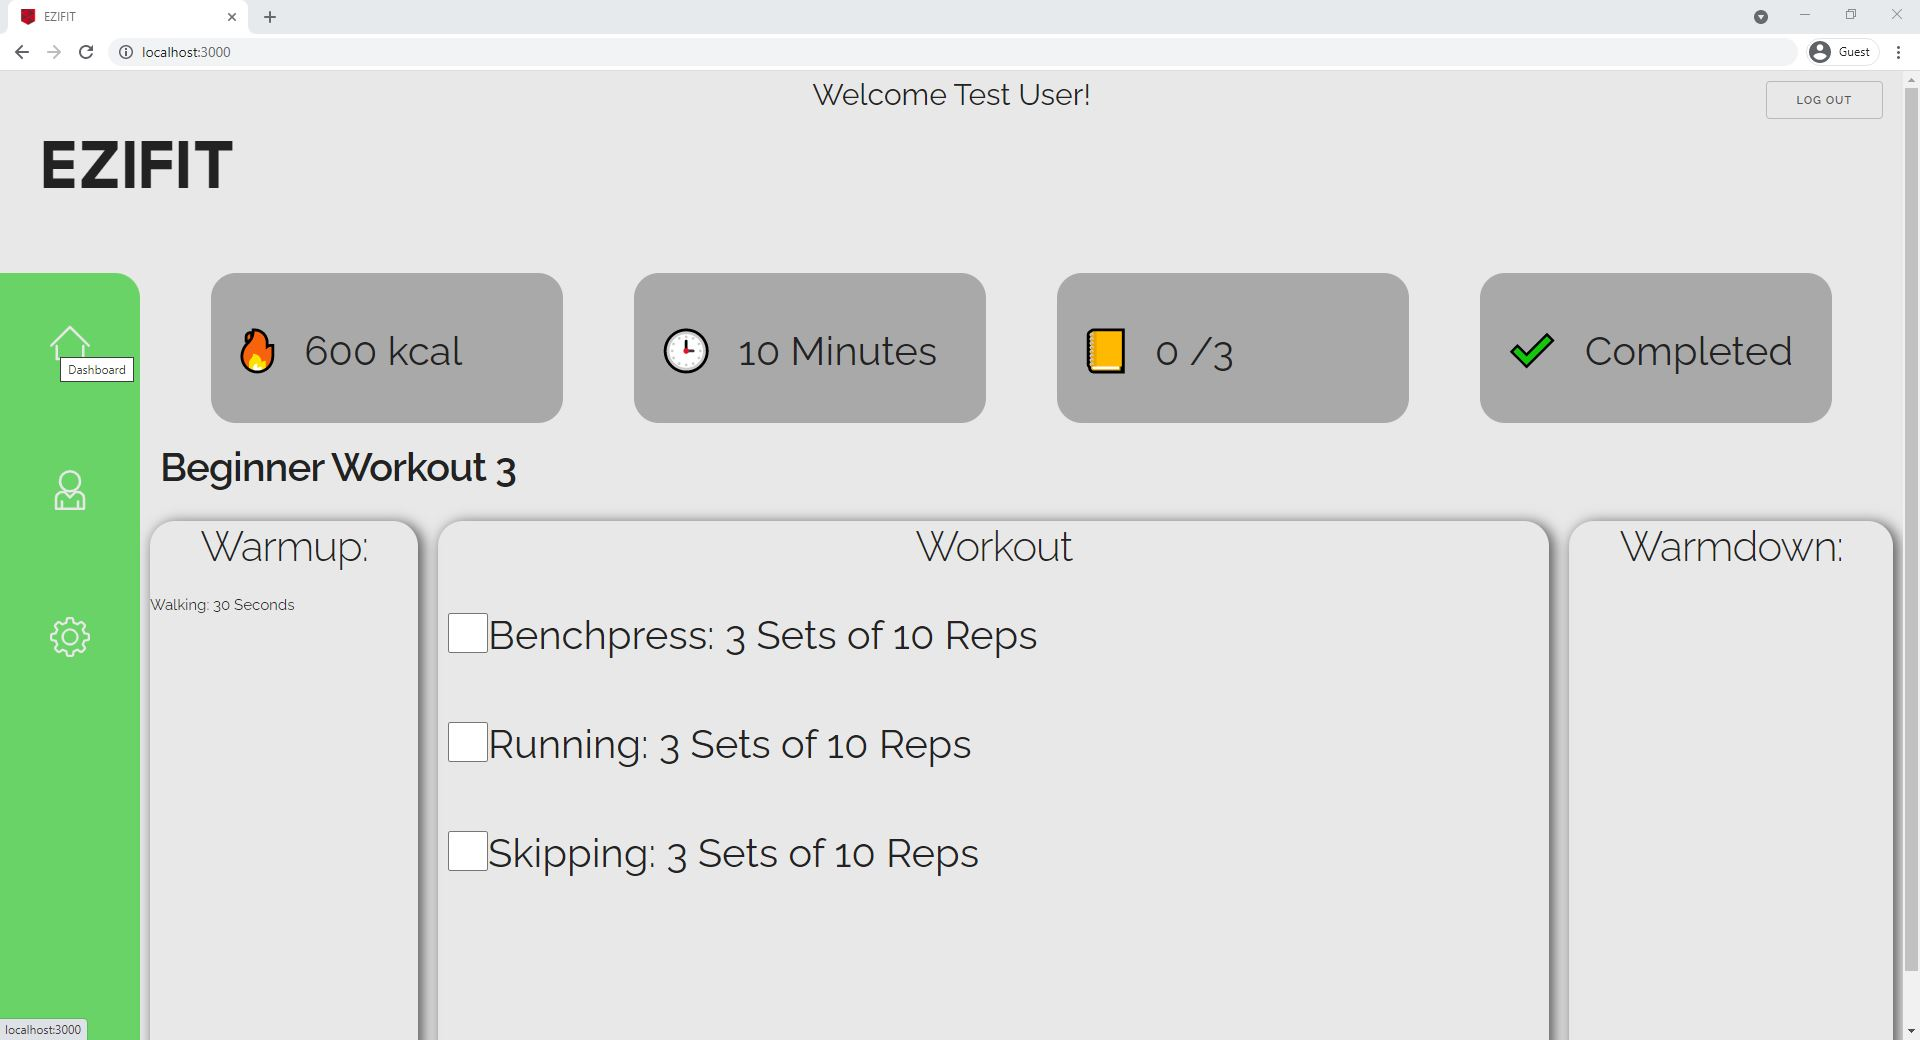
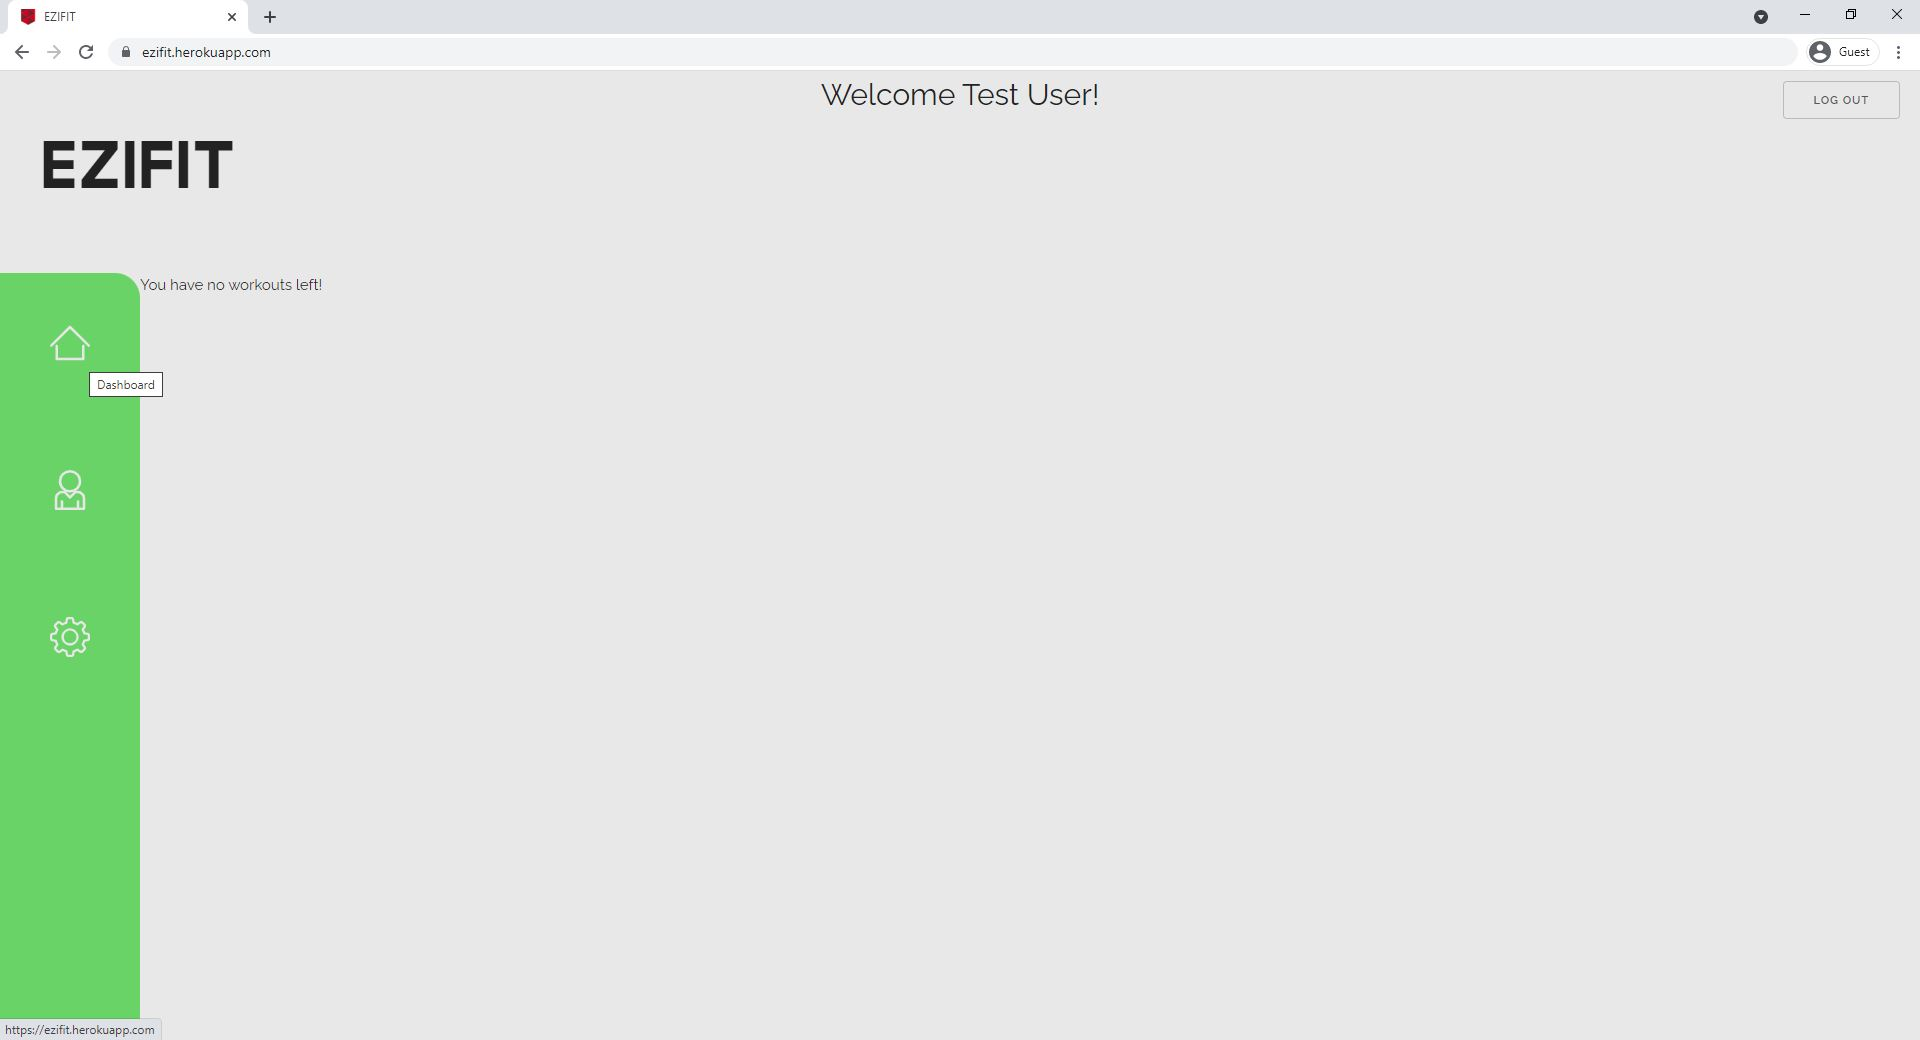
New photos and added lack of workouts to README

diff --git a/README.md b/README.md
@@ -90,3 +90,6 @@ Currently there is no ability for a trainer to log in and have their own specifi
 
 ## Scalability and cost.
 These two problems are correlated. As the application expands and more users are added, using MongoDB will become difficult to effectively manage what clients are assigned to what trainers. Using a relational database is the best solution for this, as manually assigning these identifiers is ineffective as more users are added, and requires additional overhead and processing. This would create a direct relationship between client and trainer, linking them in the database. Similar to this, Heroku will become a less viable option as the application expands. Heroku already can be a slow when handling requests if the application has not been used in 30 minutes. Further, Heroku free tier only allows for a maximum of 550 dyno hours a month. The more users using the application, the more the dyno hours are used, and eventually the business will require upgrading, at a cost, to keep the application deployed. This may require other hosting services to be compared for price and performance.
+
+## No new workouts
+Currently the application does not include any way for brand new workouts to be generated or added within the application. New workouts must be made by manually creating them in MongoDB. This ideally should be changed to allow generic randomised workouts to be made if pre-made trainer designed workouts have been exhausted, or allow a trainer to make these workouts directly on the app. As it stands, once the last workout is completed, no more workouts can be done until a new one to MongoDB is added.
